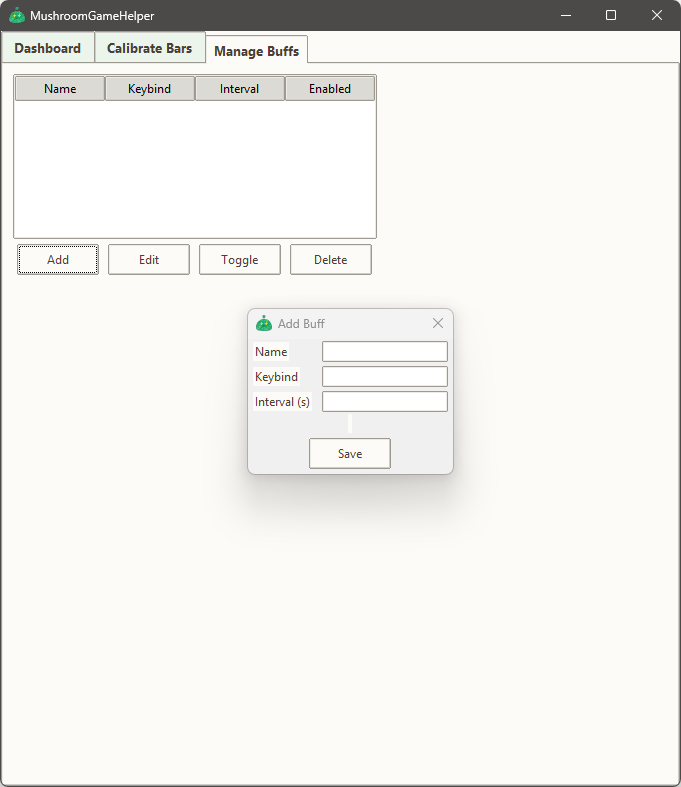
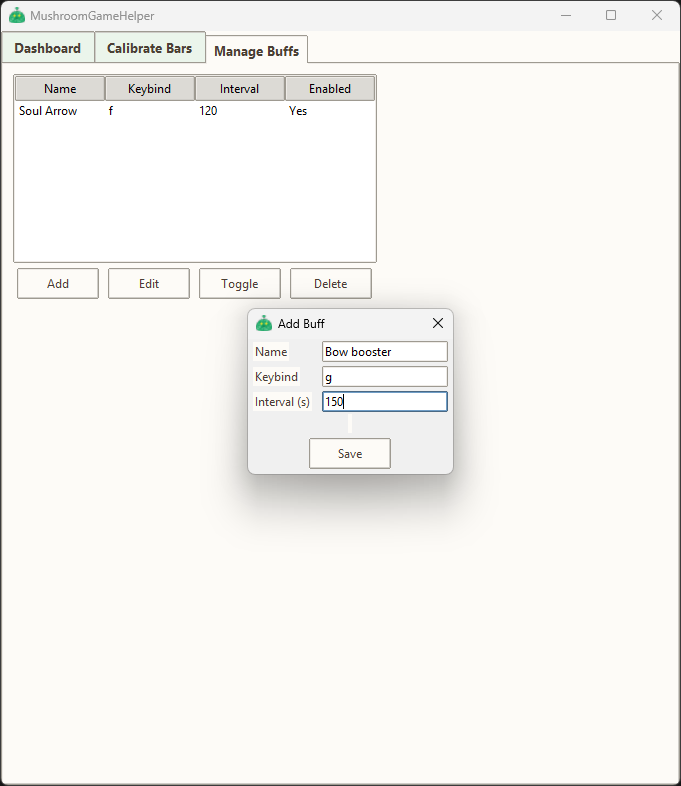
README upgrade

diff --git a/README.md b/README.md
@@ -41,24 +41,24 @@ It watches your screen, reads your health and mana bars, and presses the right k
 ## 📑 Table of Contents
 
 **👤 For General Users**
-1. [Quick Start (Download and extract)](#quick-start)
-2. [First-Time Setup & Calibration](#first-time-setup)
+* [Quick Start (Download and extract)](#quick-start)
+* [First-Time Setup & Calibration](#first-time-setup)
 
 **💻 For Developers**
-1. [Build from Source](#build-from-source)
-2. [Creating an Optimized Executable](#creating-an-optimized-executable)
+* [Build from Source](#build-from-source)
+* [Creating an Optimized Executable](#creating-an-optimized-executable)
 
 **📚 Reference**
-1. [Why use this tool instead of others?](#why-use-this-tool)
-2. [Architecture & Design](#architecture--design)
-3. [A Note on the Project’s Origins and Philosophy](#philosophy)
+* [Why use this tool instead of others?](#why-use-this-tool)
+* [Architecture & Design](#architecture--design)
+* [A Note on the Project’s Origins and Philosophy](#philosophy)
 
 ---
 
 ## 👤 For General Users
 
 <a id="quick-start"></a>
-### 1. Quick Start (Download and extract)
+###Quick Start (Download and extract)
 1. Go to the [Releases](https://github.com/pengkenlim/MushroomGameHelper/releases) page.
 2. Download the latest `MushroomGameHelper_vX.X.X.zip`.
 3. Extract the folder to your Desktop (do not run it from inside the `.zip`).
@@ -66,52 +66,60 @@ It watches your screen, reads your health and mana bars, and presses the right k
 5. Double-click `MushroomGameHelper.exe`.
 
 <a id="first-time-setup"></a>
-### 2. First-Time Setup
+### First-Time Setup
 
 1. On first launch, you will need to navigate to the **Dashboard** tab. Select game window from dropdown box. 
 
-> [!NOTE]
-> **Game window size/resolution matters:** The tool relies on visual cues from the game window. Ensure your game is running at a consistent resolution and is not resized during gameplay for accurate detection. Make any adjustment to your game window size before next step.
+   > [!NOTE]
+   > **Game window size/resolution matters:** The tool relies on visual cues from the game window. Ensure your game is running at a consistent resolution and is not resized during gameplay for accurate detection. Make any adjustment to your game window size before next step.
 
 
-<br>
+   <br>
 
-<img src="other_images/Dashboard_tab.png" alt="MushroomGameHelper dashboard tab " width="400" />
+   <img src="other_images/Dashboard_tab.png" alt="MushroomGameHelper dashboard tab " width="700" />
+   <br>
 
 
 2. Go to the **Calibrate Bars** tab and click **Launch Bar Calibrator**.
 
-<br>
+   <br>
 
-<img src="other_images/Calibrate_tab.png" alt="MushroomGameHelper calibrate tab" width="400" />
+   <img src="other_images/Calibrate_tab.png" alt="MushroomGameHelper calibrate tab" width="700" />
 
-
+   <br>
 
 2. An OpenCV window will appear.
-<br>
 
-<img src="other_images/mushroom_game.png" alt="MushroomGameHelper mushroom game screenshot " width="400" />
 
 3. Drag a box around your HP bar, click a "Full" pixel, then click an "Empty" pixel. Repeat for MP.
+   
+   <br>
+   <img src="other_images\calibration.gif" alt="MushroomGameHelper Calibration demo" width="900" />
+   <br>
 
-> [!NOTE]
-> **Useful tips:** Try to cover the entire length of the bars when dragging the calibration box for more accurate detection. The width do not matter as much-you can undershot slightly. If your HP or MP bars are full, you can click on the empty portions of the EXP bar to select the "Empty" pixel (assuming that the empty portions of the EXP bar looks the same as the empty portions of HP/MP bars).
+   > [!NOTE]
+   > **Useful tips:** Try to cover the entire length of the bars when dragging the calibration box for more accurate detection. The width do not matter as much-you can undershot slightly. If your HP or MP bars are full, you can click on the empty portions of the EXP bar to select the "Empty" pixel (assuming that the empty portions of the EXP bar looks the same as the empty portions of HP/MP bars).
 
 4. Return to the **Dashboard**, set your desired thresholds, key-binds and toggle-keys.
 
-> [!NOTE]
-> **Tooltips are helpful:** Hover over buttons and options in the dashboard to see helpful explanations and guidance.
+   > [!NOTE]
+   > **Tooltips are helpful:** Hover over buttons and options in the dashboard to see helpful explanations and guidance.
 
 5. Go to **Manage Buffs** tab to add your buffs.
 
-> [!NOTE]
-> **Autobuffing is still not perfect:** Refer to [Feature status map](#feature-map) for more information. If you don't like the current jank of autobuffing functionality, you can still use the autobuffing toggle-key as sort of a manual multi-buff macro by enabling-disabling it as needed. 
+   > [!NOTE]
+   > **Autobuffing is still not perfect:** Refer to [Feature status map](#feature-map) for more information. If you don't like the current jank of autobuffing functionality, you can still use the autobuffing toggle-key as sort of a manual multi-buff macro by enabling-disabling it as needed. 
 
-<br>
+   <br>
 
-<img src="other_images/Manage_Buffs_tab.png" alt="MushroomGameHelper mushroom game screenshot " width="400" />
+   <img src="other_images/Manage_Buffs_tab.png" alt="MushroomGameHelper mushroom game screenshot " width="700" />
+   <br>
 
 6. Go to **Dashboard** tab to press start. An On-Screen display will show the current status of the tool. It is always on top so that you can view it in-game. You can drag it around to reposition it as needed using the right-mouse button.
+
+   <br>
+   <img src="other_images\OSD2.gif" alt="MushroomGameHelper OSD demo" width="900" />
+   <br>
 
 
 
@@ -132,7 +140,7 @@ If you've looked into Mushroom game automation before, you've probably seen othe
 ## 💻 For Developers
 
 <a id="build-from-source"></a>
-### 4. Build from Source
+### Build from Source
 To run or modify the tool directly from the Python script:
 
 1. **Prerequisites:** Install [Python 3.10+](https://www.python.org/downloads/). Ensure "Add Python to PATH" is checked during installation.
@@ -146,8 +154,6 @@ To run or modify the tool directly from the Python script:
    python -m venv venv
    # Windows:
    venv\Scripts\activate
-   # macOS/Linux:
-   source venv/bin/activate
    ```
 4. **Install dependencies:**
    ```bash
@@ -155,15 +161,15 @@ To run or modify the tool directly from the Python script:
    ```
 5. **Run the application:**
    ```bash
-   python main.py --gui
+   python main.py
    ```
 
 <a id="creating-an-optimized-executable"></a>
-### 5. Creating an Optimized Executable
+### Creating an Optimized Executable
 To build a lightweight, standalone `.exe` (requires `upx.exe` in the project root for compression):
 
 ```bash
-pyinstaller --name MushroomGameHelper --noconsole --clean --upx-dir=. --icon="visual_assets\green_blob.ico" --hidden-import=pynput.keyboard._win32 --hidden-import=pynput.mouse._win32 --exclude-module matplotlib --exclude-module scipy --exclude-module pandas --exclude-module PIL --exclude-module setuptools --exclude-module pkg_resources --exclude-module distutils --exclude-module pip --exclude-module wheel --exclude-module pytest --exclude-module unittest --exclude-module doctest --add-data "visual_assets;visual_assets" main.py
+pyinstaller --name MushroomGameHelper --noconsole --clean --upx-dir=. --icon="visual_assets\green_blob.ico" --hidden-import=pynput.keyboard._win32 --hidden-import=pynput.mouse._win32 --add-data "visual_assets;visual_assets" main.py
 ```
 *The resulting optimized folder will be located in `dist/MushroomGameHelper`.*
 
@@ -172,7 +178,7 @@ pyinstaller --name MushroomGameHelper --noconsole --clean --upx-dir=. --icon="vi
 ## 📚 Reference
 
 <a id="architecture--design"></a>
-### 6. Architecture & Design
+### Architecture & Design
 The tool operates on a multi-threaded, lock-protected architecture to ensure the GUI never freezes and input is handled safely:
 * **Vision Thread (`mss` + `OpenCV`):** Captures the screen at ~4 FPS, applies HSV thresholding to the calibrated ROI, and uses a temporal median filter to ignore UI flashes.
 * **Scheduler Thread:** Tracks `perf_counter` to determine when timed buffs are due.
@@ -180,7 +186,7 @@ The tool operates on a multi-threaded, lock-protected architecture to ensure the
 * **Input Contention Guard:** Monitors physical key presses. If the user exceeds a threshold of held keys, low-priority bot actions (like buffs) are deferred to prevent game engine input buffer overflow.
 
 <a id="philosophy"></a>
-### 7. A Note on the Project’s Origins and Philosophy
+### A Note on the Project’s Origins and Philosophy
 Hello everyone! I would like to dabble in software engineering as a hobby, but am woefully inexperienced. As such, I built this project primarily as a personal learning exercise and a portfolio piece. To tackle complex topics like multi-threaded architecture and computer vision, I’ve been experimenting with using AI as a pair-programming tutor to help scaffold the initial framework. My goal isn't just to ship a tool, but to iteratively refine, debug, and deeply understand every line of code so I can grow from relying on AI assistance to mastering the underlying software engineering principles myself. I’ve always loved 2D pixelated side-scrollers (a classic version of a mushroom game in particular), and I’m sharing this publicly to learn from this amazing community, catch bugs I couldn't find alone, and hopefully help a few people along the way.
 
 As I developed the tool, I wanted to make sure it respected the spirit of the game(s) we love. Here are a few thoughts on why I built it and how I hope it gets used:
